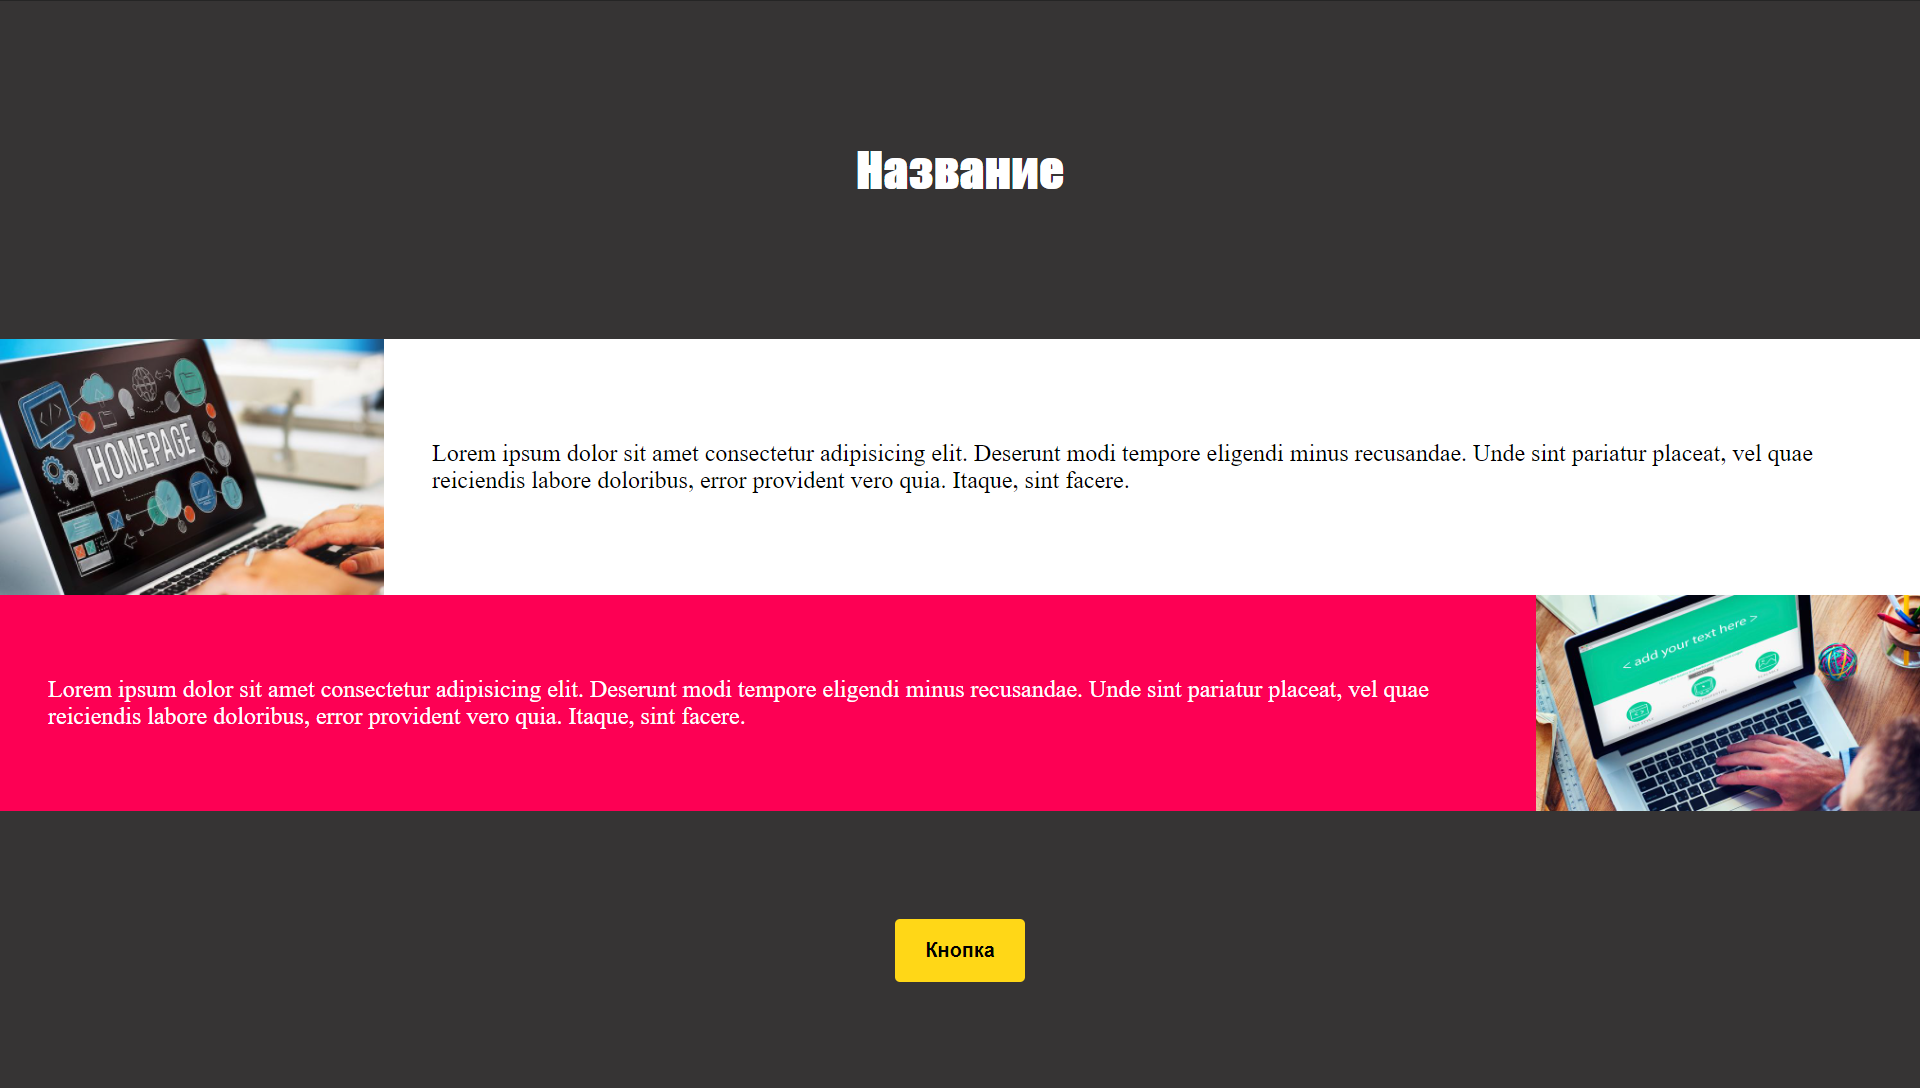
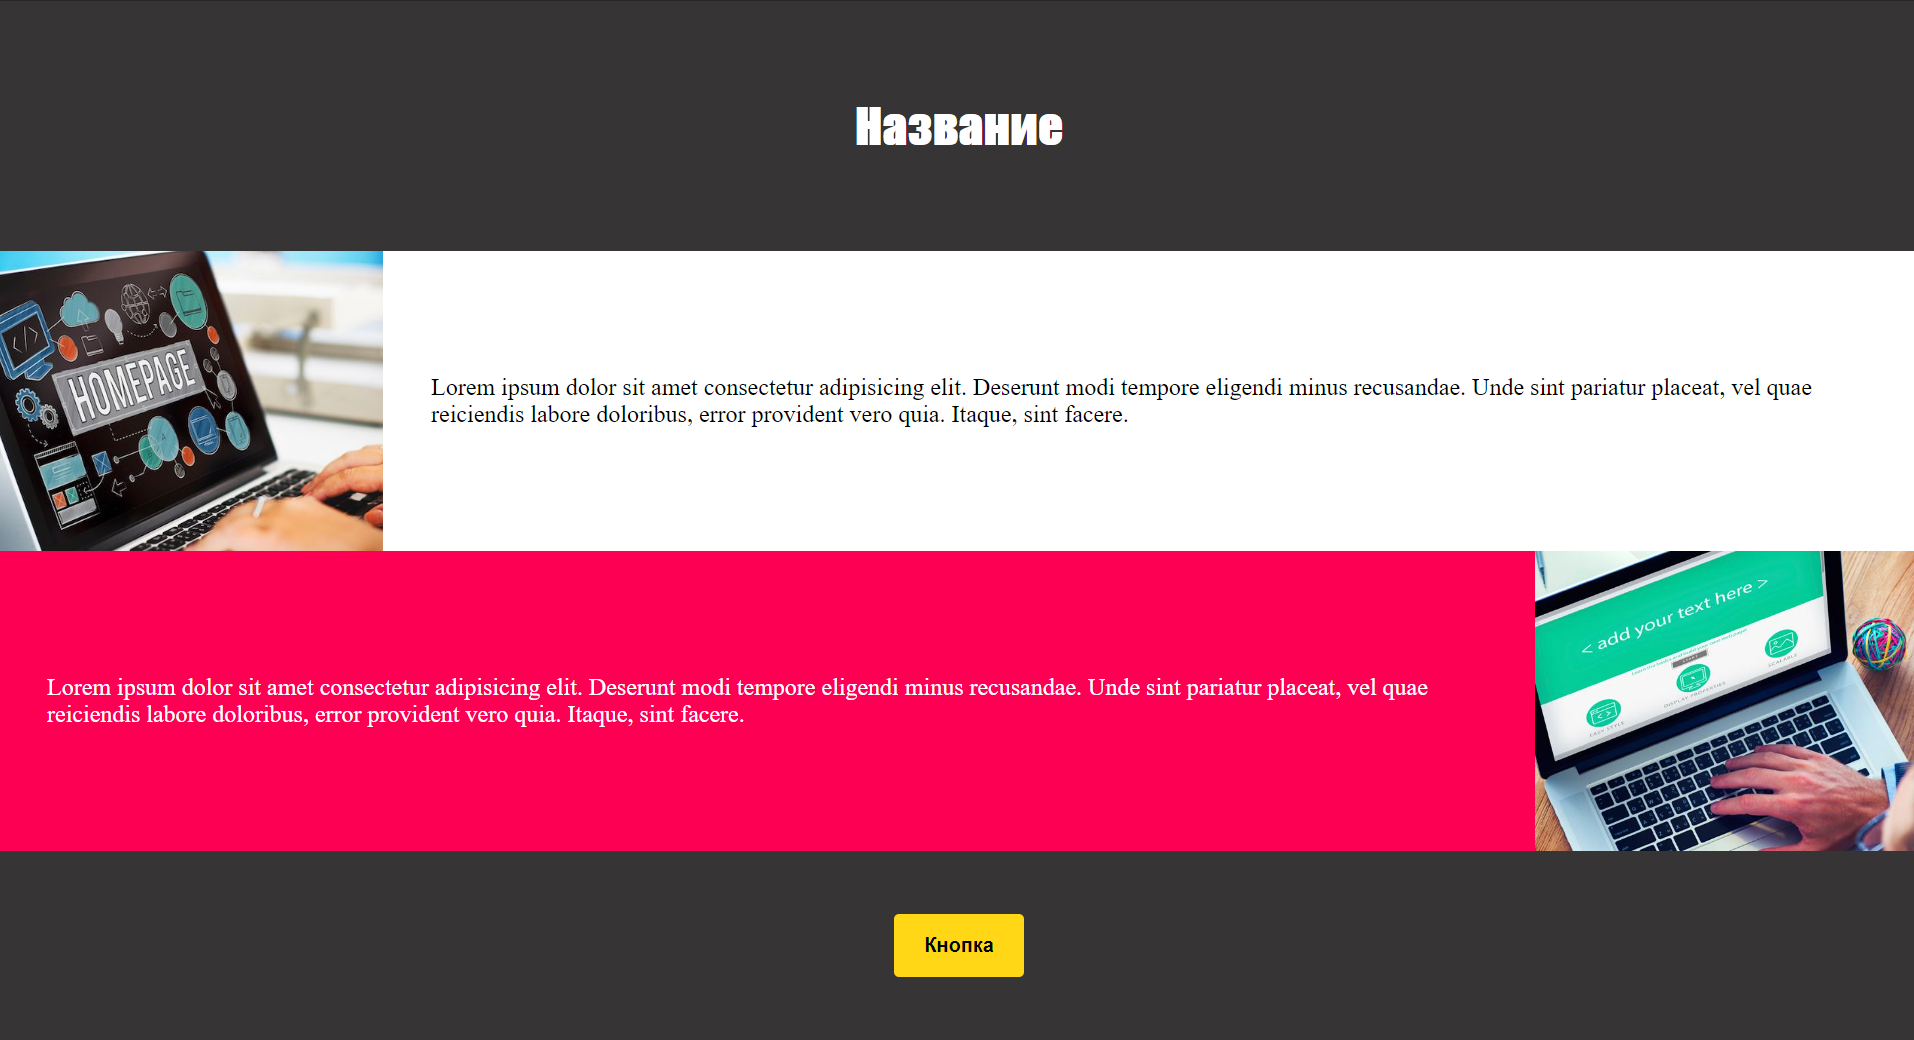
upd

Changed region(s): [[0.0, 0.2154, 1.0, 0.9538], [0.0308, 0.6154, 0.7398, 0.7077], [0.4316, 0.0923, 0.5549, 0.1846]]

diff --git a/lesson_8_final.html b/lesson_8_final.html
@@ -35,6 +35,7 @@
         }
         .picture-1 > img, .picture-2 > img {
             width: 20%;
+            object-fit: cover;
         }
 
         .picture-1 > span, .picture-2 > span {
@@ -56,7 +57,7 @@
     <h1>Название</h1>
     <div>
         <div class="picture-1">
-            <img src="img/lesson_8_1.jpg" alt="Тут будет первая картинка">
+            <img src="img/lesson_8_1.jpg" alt="Тут будет первая картинка" height="300">
             <span>
                 Lorem ipsum dolor sit amet consectetur adipisicing elit. Deserunt modi tempore eligendi minus recusandae. Unde sint
                 pariatur placeat, vel quae reiciendis labore doloribus, error provident vero quia. Itaque, sint facere.
@@ -67,7 +68,7 @@
                 Lorem ipsum dolor sit amet consectetur adipisicing elit. Deserunt modi tempore eligendi minus recusandae. Unde sint
                 pariatur placeat, vel quae reiciendis labore doloribus, error provident vero quia. Itaque, sint facere.
             </span>
-            <img src="img/lesson_8_2.jpg" alt="Тут будет вторая картинка">
+            <img src="img/lesson_8_2.jpg" alt="Тут будет вторая картинка" height="300">
         </div>
     </div>
     <div>
